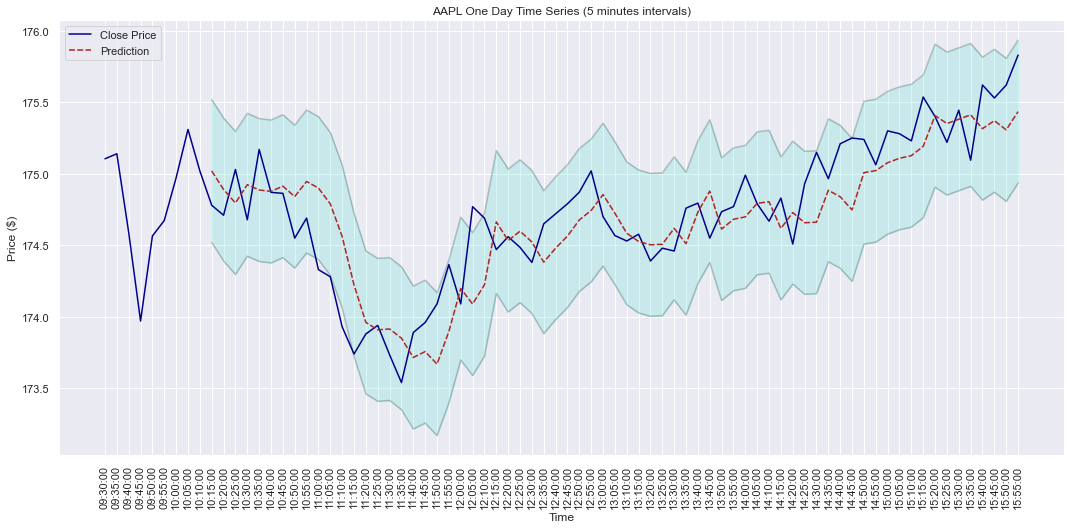
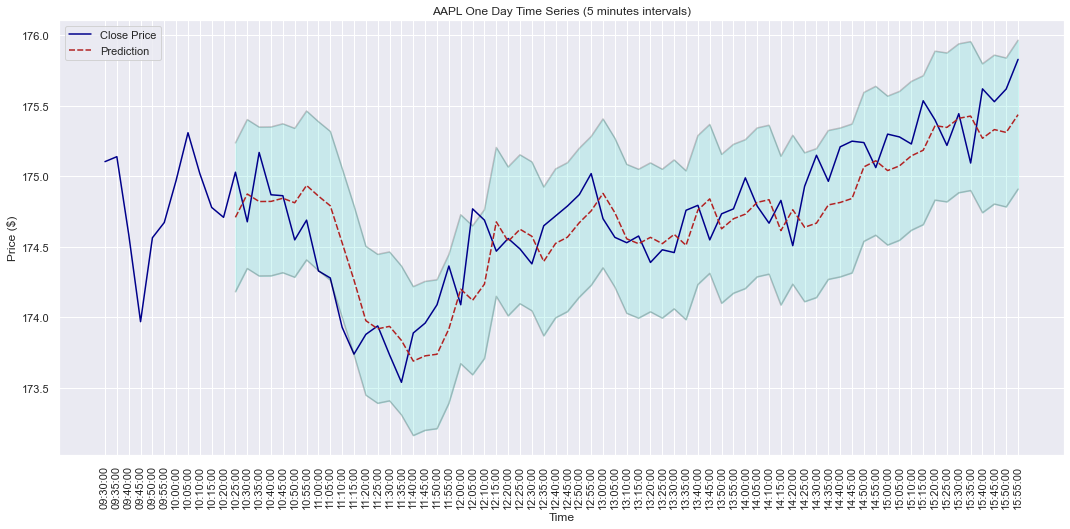
added plot

diff --git a/CRF.py b/CRF.py
@@ -145,7 +145,9 @@ plt.ylabel('Price ($)')
 plt.xticks(rotation=90)
 plt.show()
 
-best_parameters = gridSearch(data = history, n_test = 10, n_estimators_range = (100, 200), step = 100, n_in_range = (1,10), n_out = n_out)
+n_test = int(len(history.index)*0.3)
+
+best_parameters = gridSearch(data = history, n_test = n_test, n_estimators_range = (100, 1500), step = 100, n_in_range = (1,10), n_out = n_out)
 n_estimators = best_parameters[0]
 n_in = best_parameters[1]
 alpha = best_parameters[3] 
